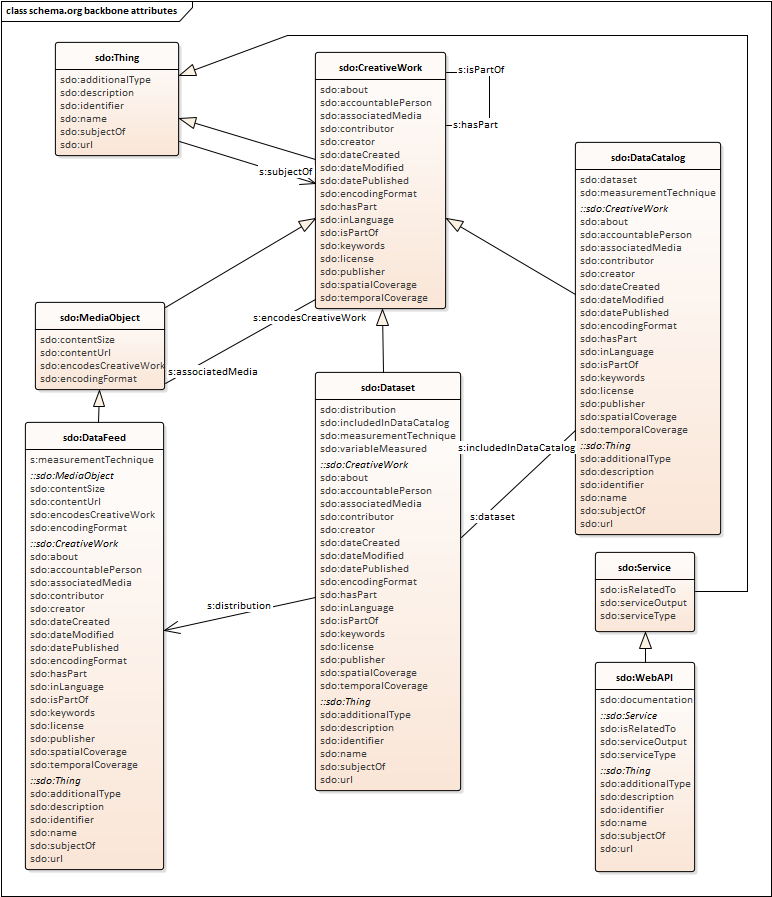
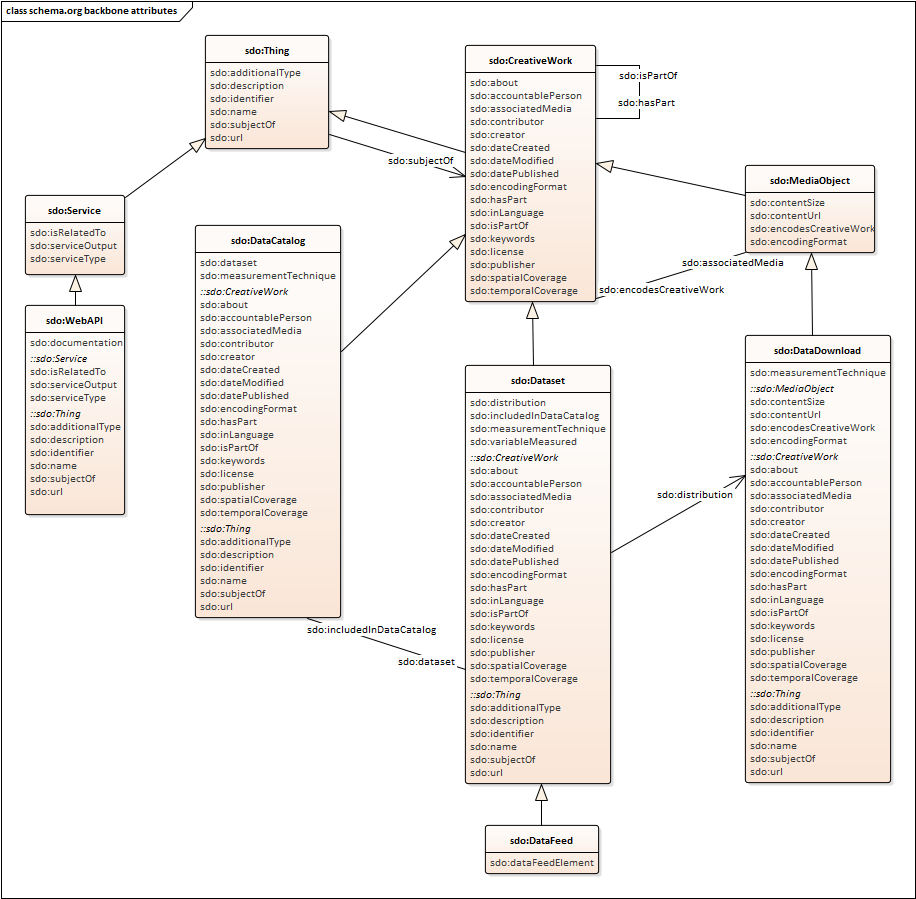
Fix DataFeed/DataDownload error, highlight parallels in narrative

diff --git a/index.html b/index.html
@@ -3324,10 +3324,18 @@ ex:Test543L
         <h3>Schema.org</h3>
         <p>
             Schema.org [[?SCHEMA-ORG]] includes a number of types and properties based on the original DCAT work (see <a href="https://schema.org/Dataset">schema:Dataset</a> as a starting point),
-            and the index for Google's <a href="https://g.co/datasetsearch">Dataset Search service</a> relies on structured description in web pages about datasets distinguishing both
+            and the index for Google's <a href="https://g.co/datasetsearch">Dataset Search service</a> relies on structured description in web pages about datasets using both
             <a href="https://developers.google.com/search/docs/data-types/dataset">schema.org and DCAT</a>.
-            A comparison of the DCAT backbone, shown in <a href="#UML_DCAT_All_Attr"></a> above with the related classes from [[?SCHEMA-ORG]] in <a href="#UML_SchemaOrg_Data_Cat"></a> shows the similarity:
+            A comparison of the DCAT backbone, shown in <a href="#UML_DCAT_All_Attr"></a> above with the related classes from [[?SCHEMA-ORG]] in <a href="#UML_SchemaOrg_Data_Cat"></a> shows the similarity, in particular: .
         </p>
+        <ul>
+          <li>
+            the distinction between (abstract) Dataset and (concrete) DataDownload matches  dcat:Dataset / dcat:Distribution 
+          </li>
+          <li>
+            the relationship of Datasets to DataCatalogs
+          </li>
+        </ul>
         <figure id="UML_SchemaOrg_Data_Cat"><img alt="UML model of schema.org classes and properties related to dataset catalogs" src="UML/schema.org-dataset.png">
             <figcaption>
                 schema.org support for dataset catalogs, showing a selection of schema.org properties related to the classes shown
@@ -3437,6 +3445,10 @@ ex:Test543L
                 <td><b>sdo:Dataset</b></td>
             </tr>
             <tr>
+                <td style="text-align: right"><b>dcat:Dataset</b> <br/> <i>dct:accrualPeriodicity fixed to <br/> &lt;http://purl.org/cld/freq/continuous&gt;</i></td>
+                <td><b>sdo:DataFeed</b></td>
+            </tr>
+            <tr>
                 <td style="text-align: right">dct:spatial</td>
                 <td>sdo:spatialCoverage</td>
             </tr>
@@ -3455,10 +3467,6 @@ ex:Test543L
             <tr>
                 <td style="text-align: right"><b>dcat:Distribution</b></td>
                 <td><b>sdo:DataDownload</b></td>
-            </tr>
-            <tr>
-                <td style="text-align: right"><b>dcat:Distribution</b> <br/> <i>where the associated dcat:Dataset has <br/> dct:accrualPeriodicity fixed to <br/> &lt;http://purl.org/cld/freq/continuous&gt;</i></td>
-                <td><b>sdo:DataFeed</b></td>
             </tr>
             <tr>
                 <td style="text-align: right">dct:format</td>
